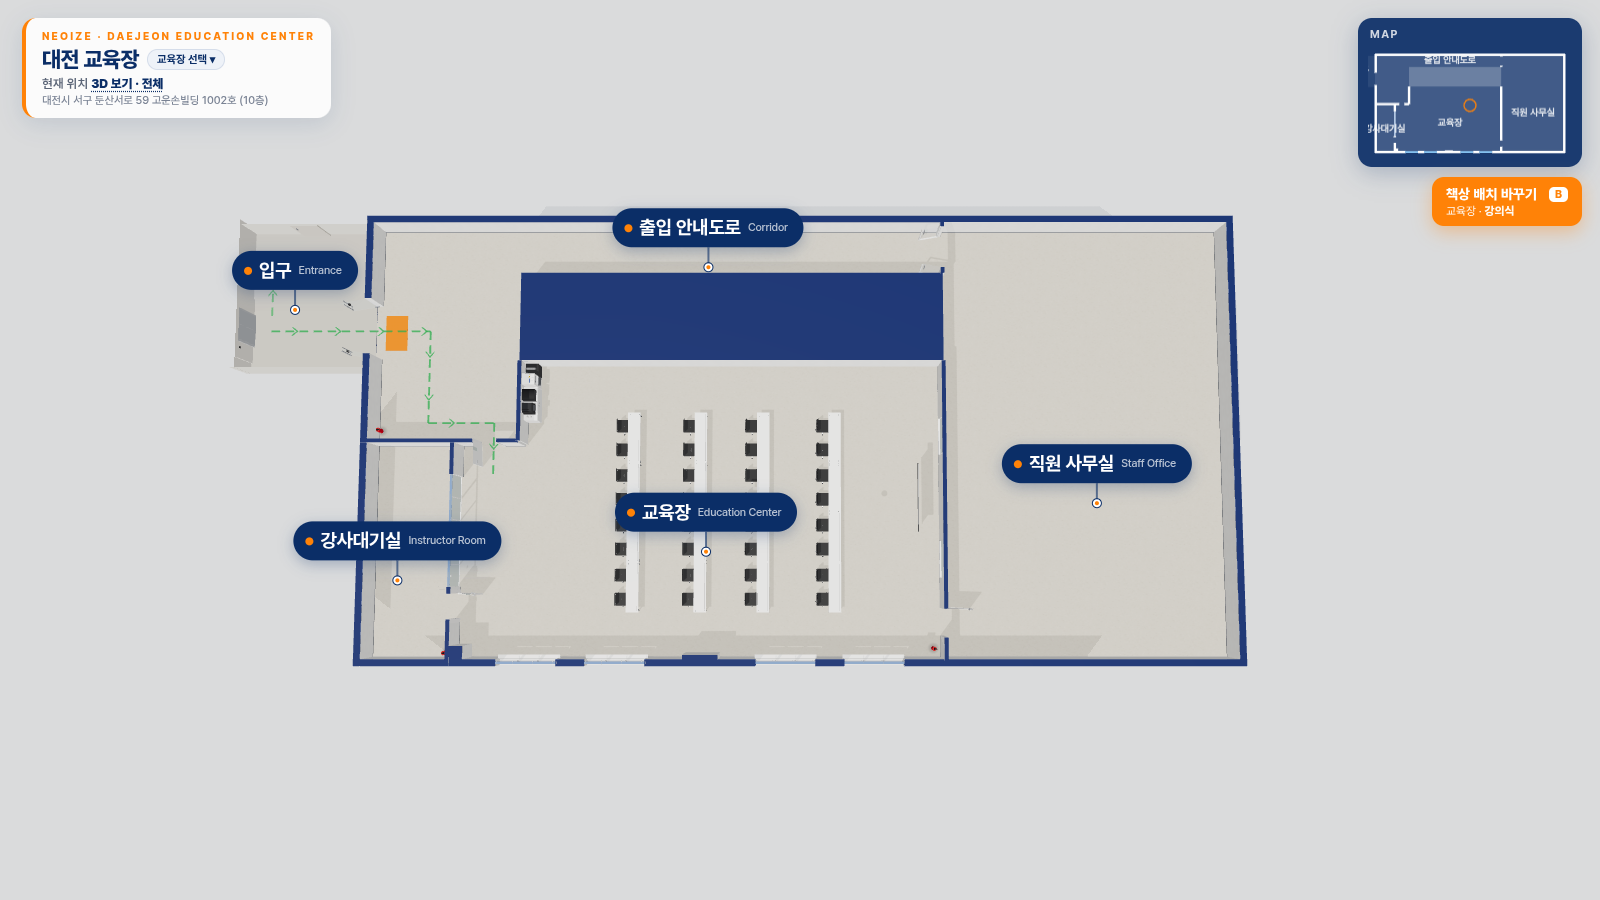
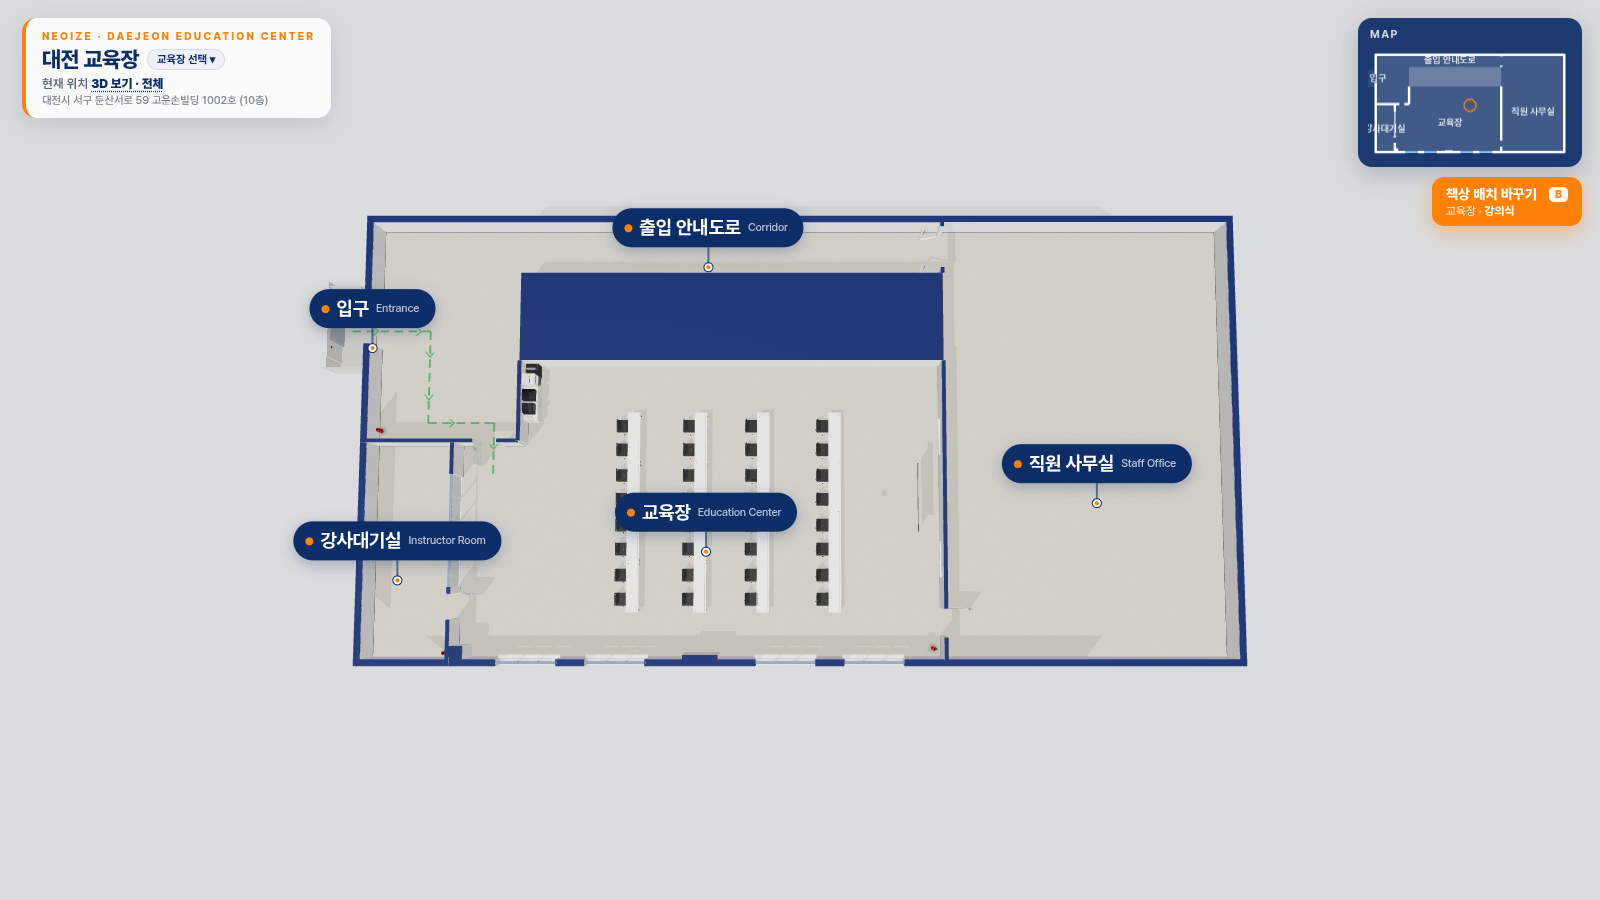
대전 입구: 로비·유리문 제거, 엘리베이터에서 서쪽 벽 열린 틈으로 바로 서쪽 복도, 시작 위치 엘리베이터 앞

Changed region(s): [[0.125, 0.2489, 0.2812, 0.4356]]

diff --git a/sites/daejeon/layout.js b/sites/daejeon/layout.js
@@ -7,7 +7,7 @@
    - 교육장(빨간 선, L자): 윗부분 x5.62–20.83 z5.30–8.19 + 아랫부분 x3.28–20.83 z8.19–16.15
    - 출입 안내도로(복도): 북쪽 띠 z0–5.30, 서쪽 x0–3.28, 동쪽 x20.83–31.36
    - 북쪽 띠 안의 흰 상자(px x153–348, y50–91) = 다른 공간(투어 제외) → columns 의 label 블록
-   - 입구(공식 안내도 10F 기준): 엘리베이터(건물 서쪽 밖 로비) → 서쪽 바깥벽 z3.05–5.05 유리 양문 → 서쪽 복도를 따라 남쪽 → 교육장 북서쪽 문(z8.19)
+   - 입구(공식 안내도 10F 기준): 엘리베이터(서쪽 벽 바로 밖) → 서쪽 벽의 문 없는 틈 z3.28–4.68 → 서쪽 복도를 따라 남쪽 → 교육장 북서쪽 문(z8.19)
    - 안내도 명칭: 북쪽 띠 안 상자 = 온라인 교육장, 서쪽 아래 = 강사대기실, 동쪽 = 직원 사무실 (투어는 교육장 중심)
    ※ 도면 비율로 잡은 추정값이에요. 실측값을 받으면 숫자만 바꾸면 됩니다.
    ===================================================================== */
@@ -17,7 +17,7 @@ window.LAYOUT = {
   photoDir: 'sites/daejeon/photos/',
 
   // 건물 밖 엘리베이터 로비(안내도: 엘리베이터는 서쪽 바깥벽 밖, 화장실은 엘리베이터 북쪽) — 걸을 수 있는 바닥 + 벽·천장
-  outside: [ [-4.6, 0.3, 0, 5.4] ],
+  outside: [ [-1.3, 2.6, 0, 5.4] ],   // 엘리베이터 앞 얕은 승강장(1.3m) — 서쪽 벽의 열린 틈으로 바로 서쪽 복도와 이어짐
   outsideWalls: true,
   backdrop: [ { side:'south', dist:9 } ],   // 남쪽 창밖 하늘 + 도시
 
@@ -27,9 +27,9 @@ window.LAYOUT = {
       card:{ photos:[],
              desc:'대전 교육장(L자 공간). 동쪽 벽 앞에 천장형 전동 스크린과 양옆 유리 화이트보드, 천장 빔프로젝터가 있고, 남쪽은 큰 창문 4개예요. 흰 접이식 책상 4열 × 4개(32석), 메시 등받이 의자. 북서쪽 벽을 따라 정수기 · 제빙기 · 커피머신이 있어요.',
              services:['전동 스크린','빔프로젝터','유리 화이트보드','스피커','냉난방','정수기','제빙기','커피머신'] } },
-    { id:'entrance', name:'입구', en:'Entrance', small:true, rect:[0, 2.11, 5.62, 8.19], rects:[[-4.6, 0.3, 0, 5.4]], floor:'floor',
-      label:[-2.3, 2.6], jump:{ x:-3.7, z:3.98, look:[4.45, 4.3] },
-      card:{ photos:[], desc:'10층 엘리베이터에서 내리면 바로 동쪽(오른쪽)에 출입문이 있어요. 들어와서 초록 경로를 따라 서쪽 복도로 남쪽으로 내려가면 교육장 북서쪽 문이에요. 화장실은 엘리베이터 북쪽이에요.' } },
+    { id:'entrance', name:'입구', en:'Entrance', small:true, rect:[0, 2.11, 5.62, 8.19], rects:[[-1.3, 2.6, 0, 5.4]], floor:'floor',
+      label:[0.5, 3.98], jump:{ x:-0.75, z:3.98, look:[4.45, 4.6] },
+      card:{ photos:[], desc:'10층 엘리베이터에서 내리면 문 없이 바로 서쪽 복도(출입 안내도로)예요. 초록 경로를 따라 복도를 남쪽으로 내려가면 교육장 북서쪽 문이에요. 화장실은 엘리베이터 바로 북쪽이에요.' } },
     { id:'road_w', name:'강사대기실', en:'Instructor Room', small:true, rect:[0, 8.19, 3.28, 16.15], floor:'floor', label:[1.64, 12.2],
       jump:{ x:1.6, z:10.0, look:[1.6, 15.0] }, card:{ photos:[], desc:'교육장 서쪽의 강사대기실. 교육장 뒤(서쪽) 벽의 흰 문으로 이어져요.' } },
     { id:'road_n', name:'출입 안내도로', en:'Corridor', small:true, rect:[0, 0, 20.83, 2.11], floor:'floor', label:[12.4, 1.05],
@@ -42,8 +42,8 @@ window.LAYOUT = {
 
   // 바닥 동선(안내도의 초록 '이동경로'): 엘리베이터 → 서쪽 출입문 → 서쪽 복도 남쪽 → 교육장 북서쪽 문 / 엘리베이터 → 화장실(북쪽)
   routes: [
-    { color:'#2fa84f', points:[[-3.9, 3.98], [2.0, 3.98], [2.0, 7.4], [4.43, 7.4], [4.43, 9.4]] },
-    { color:'#2fa84f', opacity:0.55, points:[[-3.9, 3.4], [-3.9, 1.0]] }
+    { color:'#2fa84f', points:[[-0.9, 3.98], [2.0, 3.98], [2.0, 7.4], [4.43, 7.4], [4.43, 9.4]] },
+    { color:'#2fa84f', opacity:0.55, points:[[-0.75, 3.5], [-0.75, 2.75]] }
   ],
 
   walls: [
@@ -51,7 +51,7 @@ window.LAYOUT = {
     { from:[0, 0], to:[31.36, 0], type:'solid', outer:true },
     { from:[31.36, 0], to:[31.36, 16.15], type:'solid', outer:true },
     { from:[0, 0], to:[0, 16.15], type:'solid', outer:true,
-      openings:[ { at:3.05, width:2.0, door:'glass', double:true, entrance:true, frame:'white', open:true } ] },   // 입구 (px y62–88)
+      openings:[ { at:3.28, width:1.4, full:true } ] },   // 입구 = 문 없는 열린 틈(엘리베이터 폭) — 엘리베이터에서 내리면 바로 서쪽 복도
     // 남쪽: 초록 = 창문 4개 (px 145–172, 185–212, 262–289, 302–329)
     { from:[0, 16.15],     to:[4.99, 16.15],  type:'solid',  outer:true },
     { from:[4.99, 16.15],  to:[7.10, 16.15],  type:'window', outer:true, style:'casement', sill:0.8, head:2.4, bar:1.95, bay:0.7 },
@@ -211,12 +211,11 @@ window.LAYOUT = {
     { type:'exitSign', x:2.6, z:16.02, y:2.2, rot:0 },          // 강사대기실 남서쪽
     { type:'extinguisher', x:2.9, z:15.75 },
 
-    /* --- 엘리베이터 로비(건물 밖 서쪽): 엘리베이터 + 옆 비상구 표시, 북쪽 화장실 --- */
-    { type:'elevator', x:-4.55, z:3.98, rot:-90 },
-    { type:'exitSign', x:-4.54, z:2.4, y:2.2, rot:-90 },
-    { type:'restroom', x:-2.3, z:0.35, rot:180 },
+    /* --- 엘리베이터 승강장(서쪽 벽 바로 밖, 복도로 열림): 엘리베이터 + 옆 비상구 표시, 북쪽 화장실 --- */
+    { type:'elevator', x:-1.24, z:3.98, rot:-90 },
+    { type:'exitSign', x:-1.23, z:5.05, y:2.2, rot:-90 },     // 엘리베이터 옆 비상구 표시
+    { type:'restroom', x:-0.65, z:2.62, rot:180 },            // 엘리베이터 바로 북쪽 화장실
 
     /* --- 입구 --- */
-    { type:'mat', x:0.75, z:4.05, w:0.8, d:1.3, color:'orange' }
   ]
 };

diff --git a/app.js b/app.js
@@ -5,7 +5,7 @@ import { OrbitControls } from 'three/addons/OrbitControls.js';
 import { CSS2DRenderer, CSS2DObject } from 'three/addons/CSS2DRenderer.js';
 import { RoomEnvironment } from 'three/addons/RoomEnvironment.js';
 import { mergeGeometries } from 'three/addons/BufferGeometryUtils.js';
-import { makeTextures, textTexture } from './textures.js?v=11191730';
+import { makeTextures, textTexture } from './textures.js?v=11191800';
 
 const L = window.LAYOUT, B = L.building, H = B.ceiling, EYE = B.eye || 1.6, W = B.width, D = B.depth;
 const TW = Object.assign({ exterior: 0.24, interior: 0.14, thick: 0.3 }, B.wall || {});
@@ -288,6 +288,7 @@ for (const w of L.walls) {
   for (const o of ops) {
     const len = o.width, c = o.at + len / 2, cx = horiz ? c : fixed, cz = horiz ? fixed : c;
     const lintel = 2.12;
+    if (o.full) continue;   // 바닥~천장 열린 틈(문·인방 없음)
     if (o.door === 'frameless') { const [fw, fd] = sz2(horiz, len, 0.05); box(fw, 0.06, fd, M.frame, cx, H - 0.06, cz); box(horiz ? 0.04 : 0.055, H, horiz ? 0.055 : 0.04, M.frame, horiz ? o.at : cx, 0, horiz ? cz : o.at); box(horiz ? 0.04 : 0.055, H, horiz ? 0.055 : 0.04, M.frame, horiz ? o.at + len : cx, 0, horiz ? cz : o.at + len); }
     else if (w.type === 'glass') { const p = new THREE.Mesh(new THREE.BoxGeometry(horiz ? len : 0.02, H - lintel, horiz ? 0.02 : len), M.glass); p.position.set(cx, (H + lintel) / 2, cz); root.add(p); box(horiz ? len : 0.06, 0.05, horiz ? 0.06 : len, M.frame, cx, H - 0.05, cz); }
     else if (o.transom) {   // 문 위 유리 채광창(흰 프레임) — 천장까지

diff --git a/index.html b/index.html
@@ -178,10 +178,10 @@ a.pk-card:hover{transform:translateY(-4px);box-shadow:0 16px 36px rgba(11,46,103
   </div>
 </aside>
 <!-- 교육장 목록: sites/sites.js / 교육장별 공간 설정: sites/<id>/layout.js (치수·가구 배치는 거기서 수정) -->
-<script src="sites/sites.js?v=11191730"></script>
+<script src="sites/sites.js?v=11191800"></script>
 <script type="importmap">{"imports":{"three":"./lib/three.module.min.js","three/addons/":"./lib/addons/"}}</script>
 <script type="module">
-const V = '11191730', SITES = window.SITES || [], q = new URLSearchParams(location.search);
+const V = '11191800', SITES = window.SITES || [], q = new URLSearchParams(location.search);
 let id = q.get('site');
 if (!id && [...q.keys()].length) id = 'seoul';            // 예전 링크(?room=… 등)는 서울 구로로
 const S = SITES.find((s) => s.id === id);

diff --git a/수정방법.md b/수정방법.md
@@ -310,7 +310,7 @@ ceiling: { panels:[ { rect:[x1,z1,x2,z2], nx:2, nz:3 } ],  aircon:[[x,z], ...] }
 
 ### 대전 11/19 실사 보정 (사진 + 공식 안내도 10F)
 - 주소: 대전시 서구 둔산서로 59 고운손빌딩 1002호 (10층) — `sites/sites.js`.
-- 입구(안내도): 건물 서쪽 밖 엘리베이터 로비(`outside` + `outsideWalls:true`, `elevator` · `restroom` 빌더) → 서쪽 바깥벽 유리 양문(z3.05–5.05) → 서쪽 복도 남쪽 → 교육장 북서쪽 문(z8.19). 바닥 초록 경로는 `routes:[...]` (여러 개 가능). 걷기 시작 = 엘리베이터 앞.
+- 입구(안내도, 11/19 수정): 엘리베이터가 서쪽 벽 바로 밖(얕은 승강장 1.3m, `outside` + `outsideWalls:true`)에 있고, 서쪽 벽에 문 없는 틈(z3.28–4.68)이 있어 내리면 바로 서쪽 복도 → 남쪽 → 교육장 북서쪽 문(z8.19). 화장실 문은 승강장 북쪽 벽. 바닥 초록 경로는 `routes:[...]` (여러 개 가능). 걷기 시작 = 엘리베이터 앞.
 - 공간 이름(안내도): 북쪽 상자 = 온라인 교육장(투어 제외 블록), 서쪽 아래 = 강사대기실, 동쪽 = 직원 사무실. 비상구 유도등(`exitSign`) + 소화기(`extinguisher`)는 안내도 위치.
 - 뒤(서쪽) 벽: 흰 문(비전창 `vision:'panel'`, 위 유리 채광창 `transom:true`, 넓은 흰 문틀 `casing`) → 반투명 유리 5칸(`type:'glass', style:'frost', bay:0.8`, 가는 흰 멀리언, 스위치 `switchAt`) → 흰 벽 1.2m → 튀어나온 벽 남쪽 면 좁은 흰 문(`vision:'strip'`) + 비상구 유도등.
 - 남쪽 창: `style:'casement'` (흰 프레임, 창턱 0.8m, 가로 바 1.95m, 세로 창살 `bay`). 창밖 하늘·도시 = `backdrop`.
